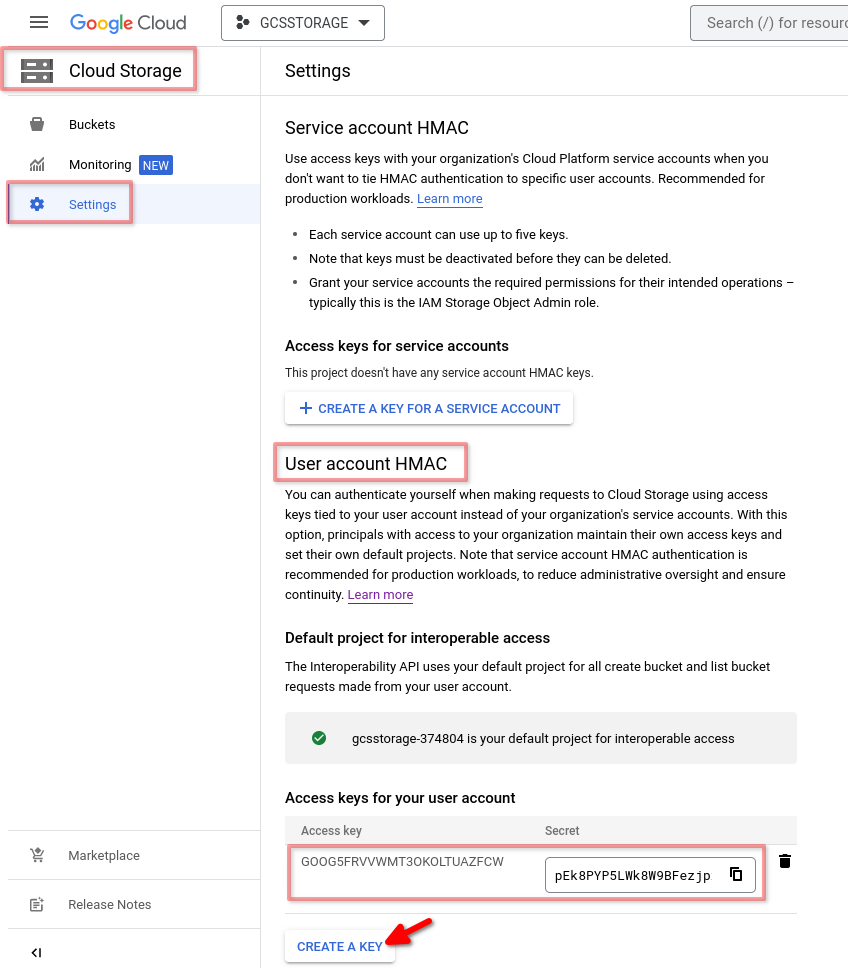
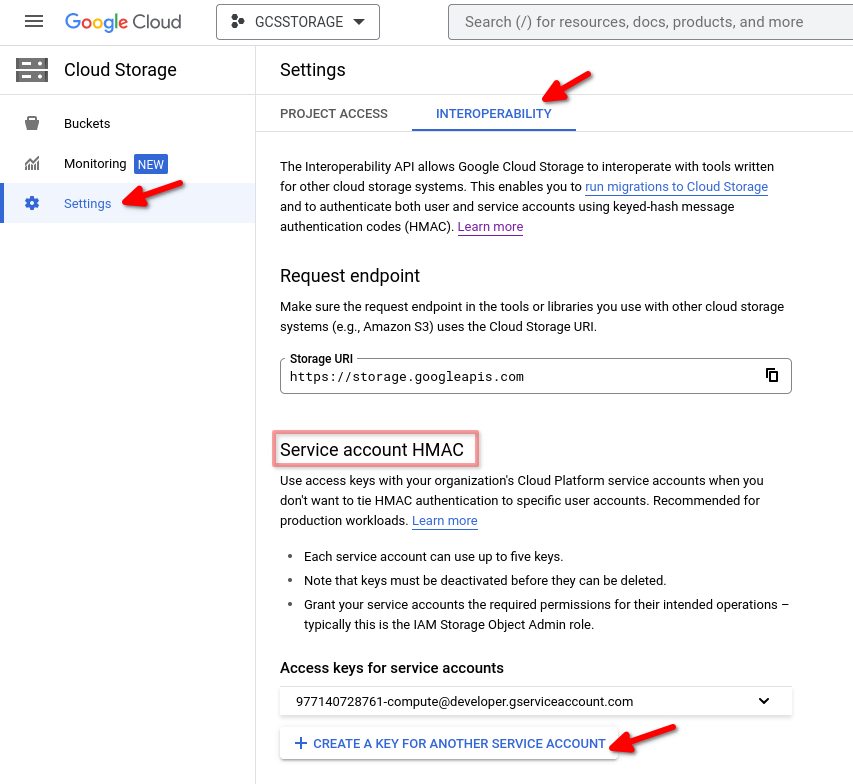
redo after testing

diff --git a/docs/en/integrations/data-ingestion/s3/gcs-multi-region.md b/docs/en/integrations/data-ingestion/s3/gcs-multi-region.md
@@ -12,15 +12,29 @@ import SelfManaged from '@site/docs/en/_snippets/_self_managed_only_no_roadmap.m
 ## Plan the deployment
 This tutorial is based on deploying one ClickHouse server node in Google Cloud, and one GCS bucket.  Both of these are in the same region.
 
-## Create a GCS bucket
+## Create two buckets
 
-Create a user HMAC key and secret.
+The two ClickHouse servers will be located in different regions for high availability.  Each will have a GCS bucket in the same region.
 
-![Add a user HMAC secret](@site/docs/en/integrations/data-ingestion/s3/images/GCS-HMAC-key.png)
-
-Create a bucket.
-
+In **Cloud Storage > Buckets** choose **CREATE BUCKET**.
 ![Add a bucket](@site/docs/en/integrations/data-ingestion/s3/images/GCS-bucket-folder.png)
+
+## Generate an Access key 
+
+### Create a service account HMAC key and secret
+
+Open **Cloud Storage > Settings > Interoperability** and either choose an existing **Access key**, or **CREATE A KEY**
+![Add a service account HMAC secret](@site/docs/en/integrations/data-ingestion/s3/images/GCS-HMAC-service-account.png)
+
+If you create a new key, save the Access key and Secret, they will be used in the ClickHouse configuration.
+
+![Add a service account HMAC secret](@site/docs/en/integrations/data-ingestion/s3/images/GCS-new-key.png)
+
+### Assign the necessary IAM role
+
+In the Interoperability settings dialog the IAM role **Storage Object Admin** role is recommended.
+
+![Add a service account HMAC secret](@site/docs/en/integrations/data-ingestion/s3/images/GCS-service-account-storage-admin.png)
 
 ## Install software
 
